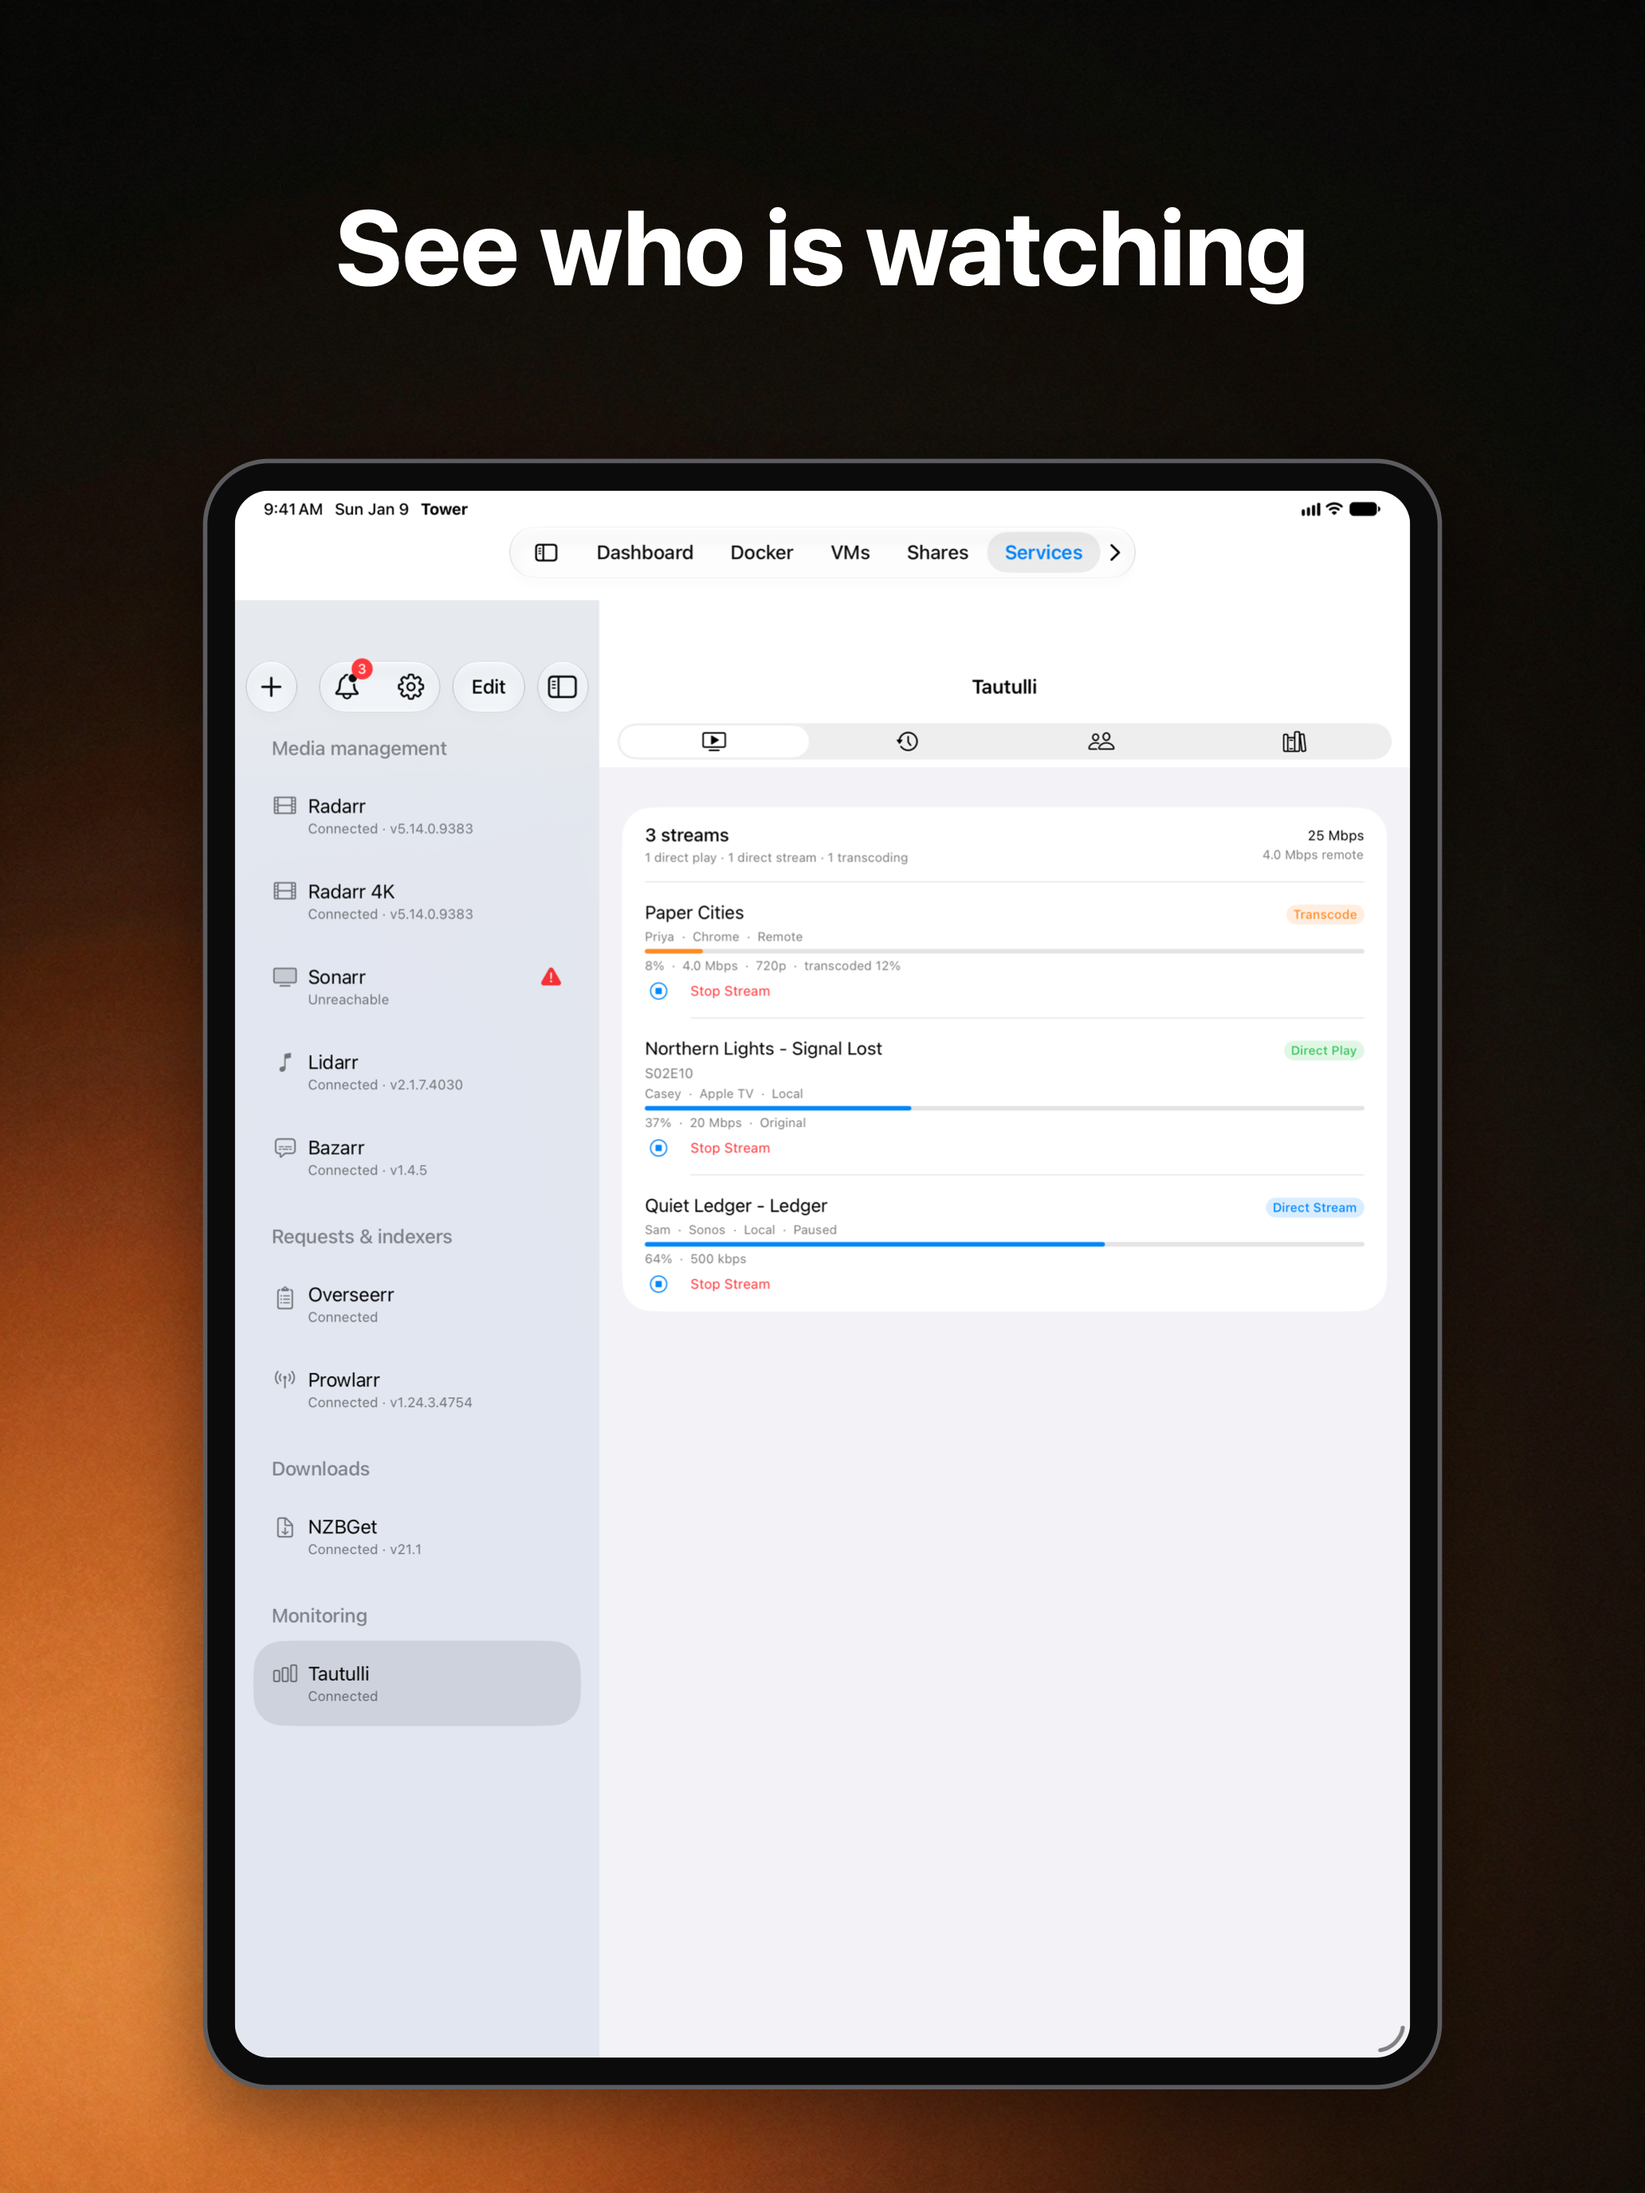
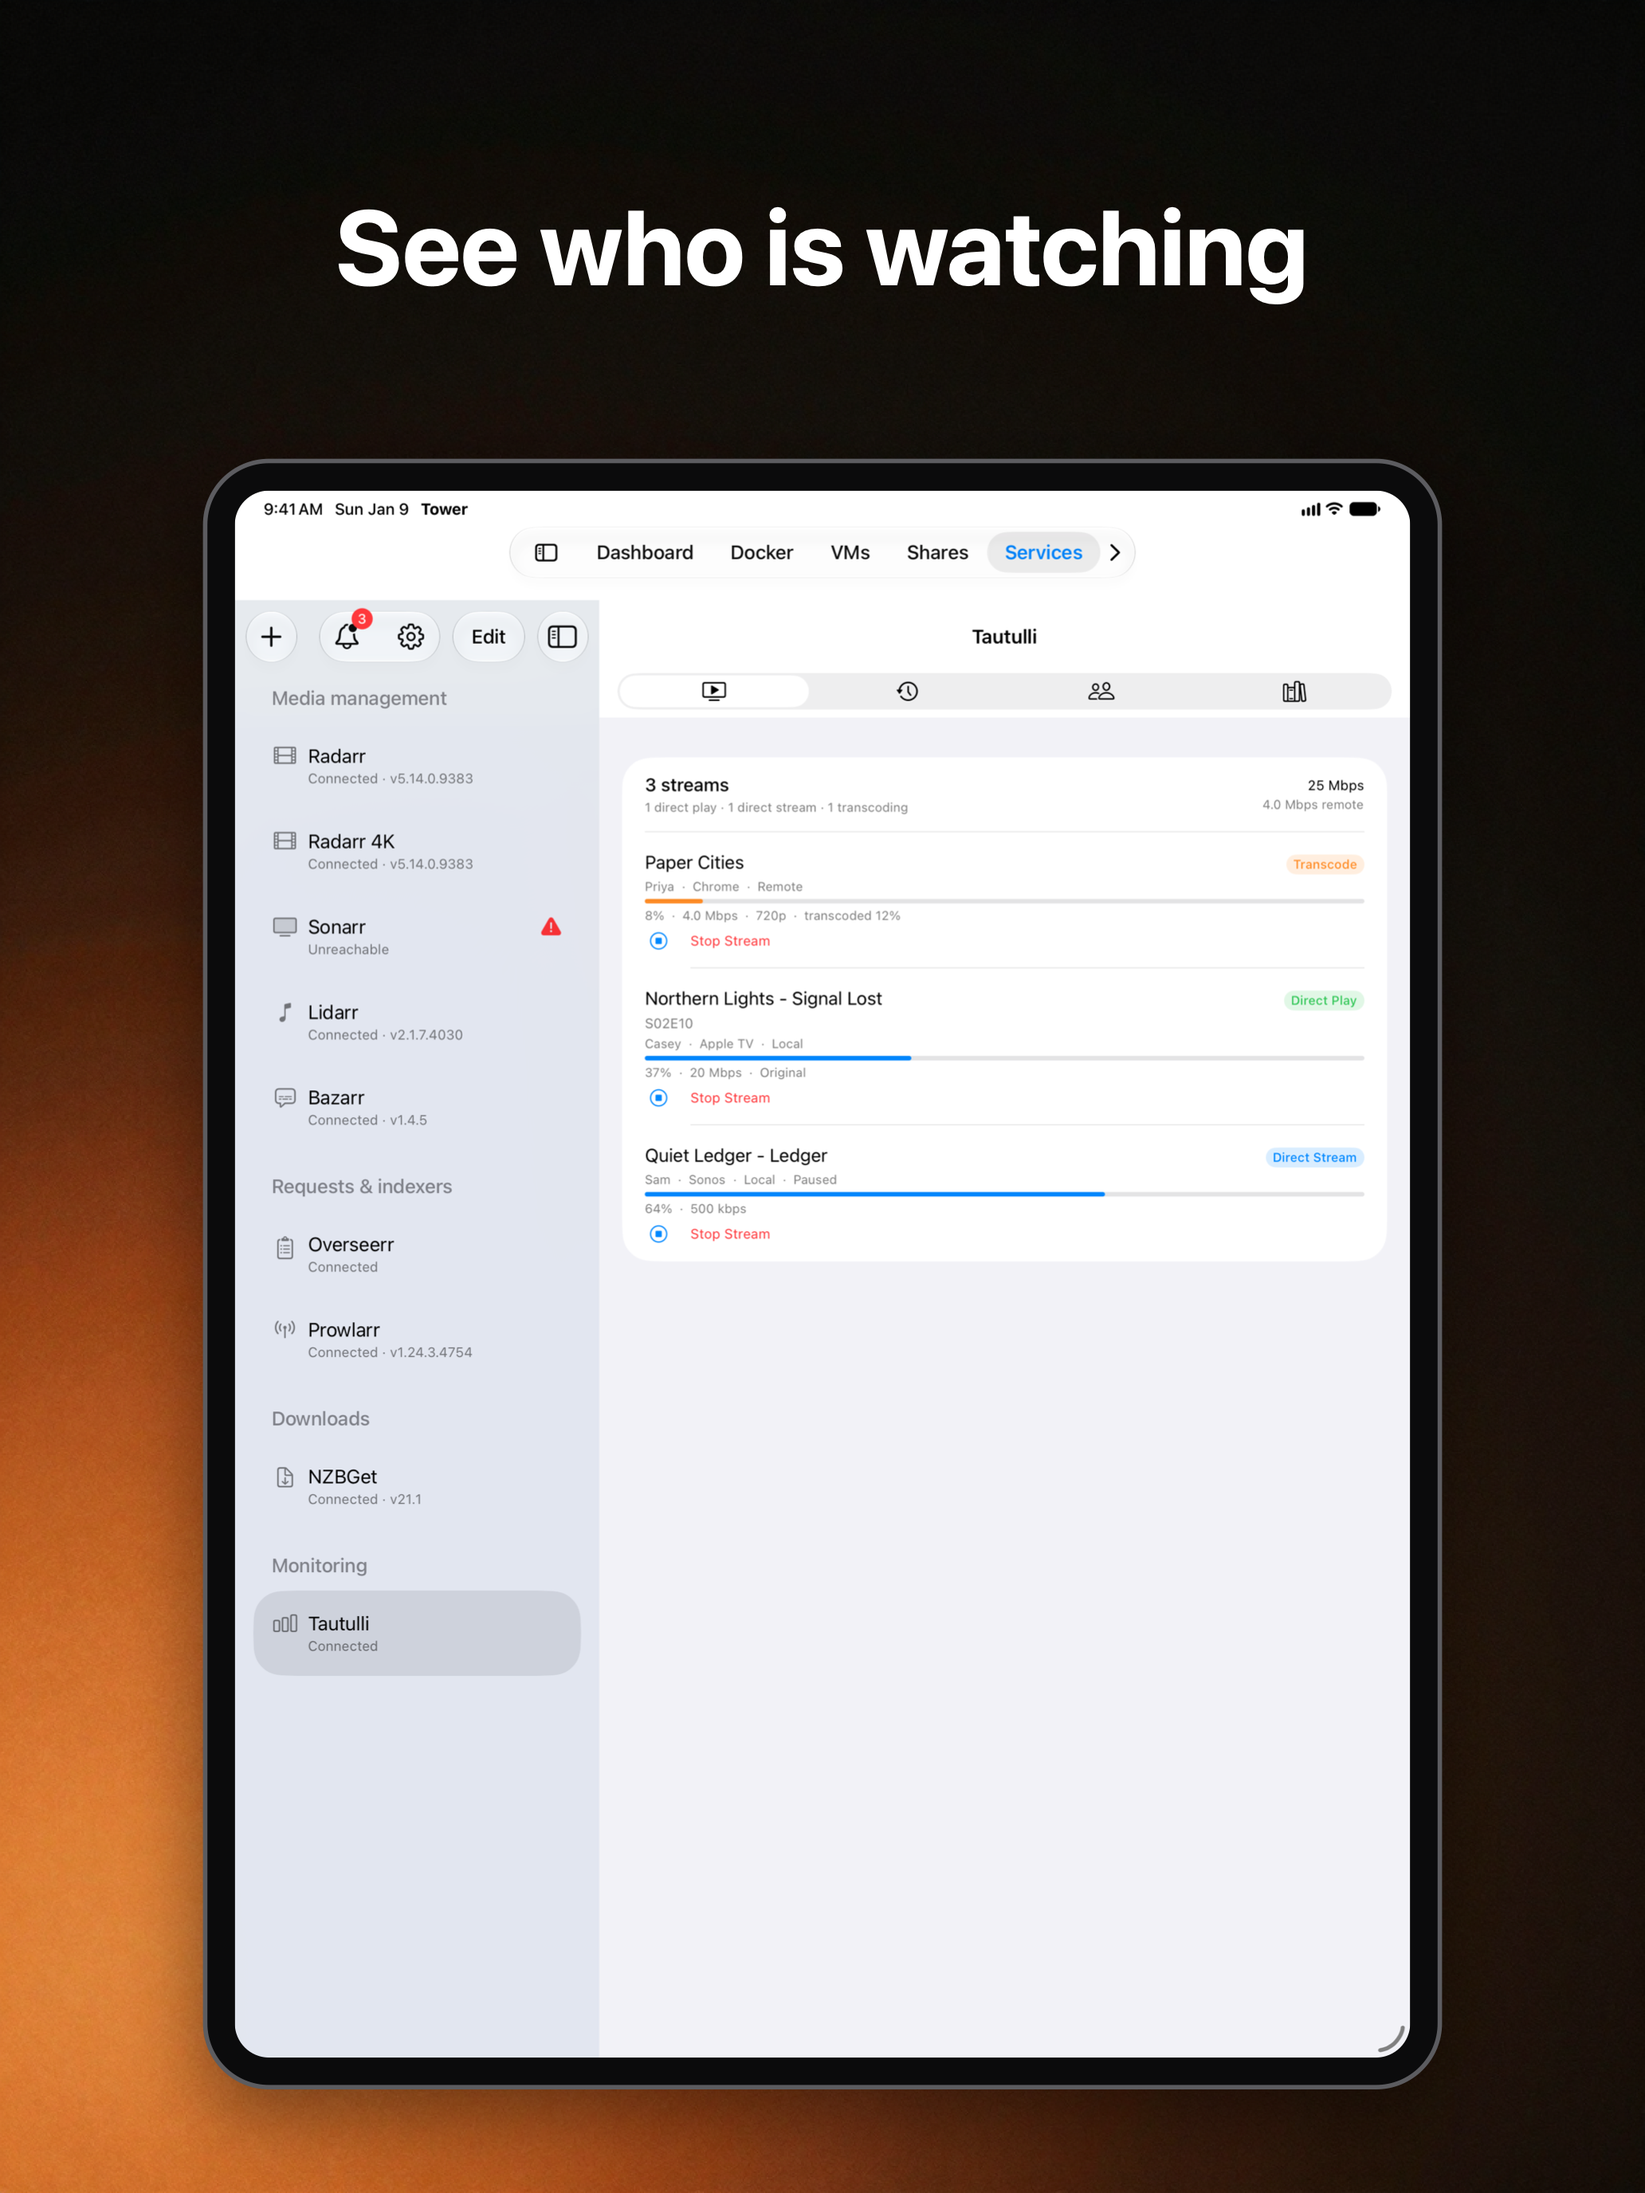
Keep the iPad split view's bars level after a detail push (#40) (#45)
* Add a failing iPad test: split-view bars drop 44 pt after a detail push (#40)

* Keep the split view's bars level after a detail push on iPad (#40)

An empty child view controller beside the NavigationSplitView stops UIKit
from adding a second top inset for the top tab bar to each column after a
push, which dropped both columns' bars 44 pt.

* Recapture the iPad streams, music and subtitles screenshots with level bars (#40)

* Say the bar anchor sits behind the split view and draws nothing (#40)

diff --git a/TowerUITests/SplitViewBarPositionUITests.swift b/TowerUITests/SplitViewBarPositionUITests.swift
@@ -1,0 +1,61 @@
+import XCTest
+
+/// The split view's top bars stay where they are after a push (issue #40).
+///
+/// On iPad under the top tab bar, a push inside the detail column moved both
+/// columns' navigation bars 44 pt lower, and they stayed there after Back and
+/// after another service was selected. The App Store captures for streams,
+/// music and subtitles showed the lower bars.
+@MainActor
+final class SplitViewBarPositionUITests: XCTestCase {
+  override func setUp() {
+    super.setUp()
+    continueAfterFailure = false
+  }
+
+  func testBarsStayLevelAfterADetailPush() throws {
+    try XCTSkipIf(UIDevice.current.userInterfaceIdiom != .pad, "only the iPad has a split view")
+
+    let app = XCUIApplication()
+    app.launchArguments = ["--uitest-reset-credentials"]
+    app.launch()
+    let demo = app.buttons["connect.demo"]
+    XCTAssertTrue(demo.waitForExistence(timeout: 15), "the connect screen offered no demo")
+    demo.tap()
+    XCTAssertTrue(
+      app.descendants(matching: .any).matching(identifier: "services.docker")
+        .firstMatch.waitForExistence(timeout: 15),
+      "the demo never reached a loaded dashboard")
+    useTabBarLayout(in: app)
+    app.buttons["Services"].firstMatch.tap()
+
+    let add = app.buttons["services.add"].firstMatch
+    open("D0000000-0000-0000-0000-000000000001", named: "Radarr", in: app)
+    let movie = app.descendants(matching: .any)
+      .matching(NSPredicate(format: "identifier BEGINSWITH 'radarr.row.'")).firstMatch
+    XCTAssertTrue(movie.waitForExistence(timeout: 20), "the demo library never loaded")
+    XCTAssertTrue(add.exists, "the hub had no Add Service button")
+    let level = add.frame.minY
+
+    movie.tap()
+    tapBack(in: app)
+    XCTAssertTrue(movie.waitForExistence(timeout: 10), "Back never returned to the library")
+
+    open("D0000000-0000-0000-0000-000000000010", named: "Tautulli", in: app)
+    XCTAssertTrue(
+      app.descendants(matching: .any)
+        .matching(NSPredicate(format: "identifier BEGINSWITH 'tautulli.stream.'")).firstMatch
+        .waitForExistence(timeout: 25),
+      "the demo activity never loaded")
+    XCTAssertEqual(
+      add.frame.minY, level, accuracy: 1,
+      "the hub's bar moved after a push in the detail column")
+  }
+
+  private func open(_ id: String, named name: String, in app: XCUIApplication) {
+    let row = app.descendants(matching: .any).matching(identifier: "services.row.\(id)").firstMatch
+    XCTAssertTrue(row.waitForExistence(timeout: 15), "the demo hub never offered a \(name)")
+    XCTAssertTrue(scrollUntilHittable(row, in: app, within: row), "the \(name) row was off screen")
+    row.tap()
+  }
+}

diff --git a/Tower/Navigation/ListDetailScaffold.swift b/Tower/Navigation/ListDetailScaffold.swift
@@ -109,8 +109,33 @@ struct ListDetailScaffold<SelectionID: Hashable, Sidebar: View, Detail: View>: V
         .id(selection)
       }
       .navigationSplitViewStyle(.balanced)
+      // Keeps both columns' bars at one height under the top tab bar. See
+      // `SplitViewBarAnchor`.
+      .background { SplitViewBarAnchor() }
     }
   }
+}
+
+/// An empty child view controller behind the split view. It keeps the
+/// columns' bars from dropping 44 pt after a push (issue #40).
+///
+/// **Its presence is the fix; it draws nothing and does nothing.** Do not remove
+/// it as dead code. `SplitViewBarPositionUITests` fails without it.
+///
+/// What was measured, on the iPadOS 27.0 simulator under the top tab bar: the
+/// tab puts the split view below the tab bar. After any push in the detail
+/// column, UIKit also gives each column a 54 pt top inset for the tab bar, so
+/// both columns' bars move from y=106 to y=150. They stay there after Back and
+/// after another row is selected. With a child view controller behind the
+/// split view, the columns keep a top inset of 0, and the bars stay at 106
+/// after a push, after Back, and after a tab switch.
+///
+/// A plain `UIView` (`UIViewRepresentable`) or `Color.clear` in the same place
+/// does not do this; only a view controller does. This depends on UIKit
+/// behaviour that Apple does not document, so check it again on a new iPadOS.
+private struct SplitViewBarAnchor: UIViewControllerRepresentable {
+  func makeUIViewController(context: Context) -> UIViewController { UIViewController() }
+  func updateUIViewController(_ controller: UIViewController, context: Context) {}
 }
 
 /// The detail column's "nothing selected yet" copy. A struct rather than four
